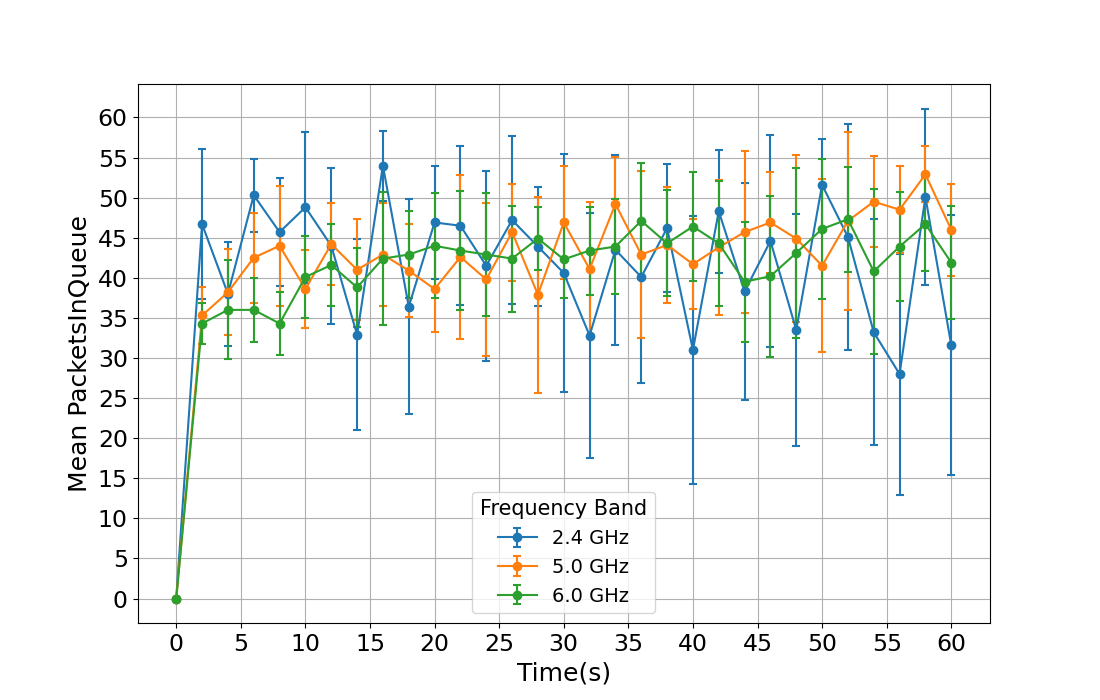
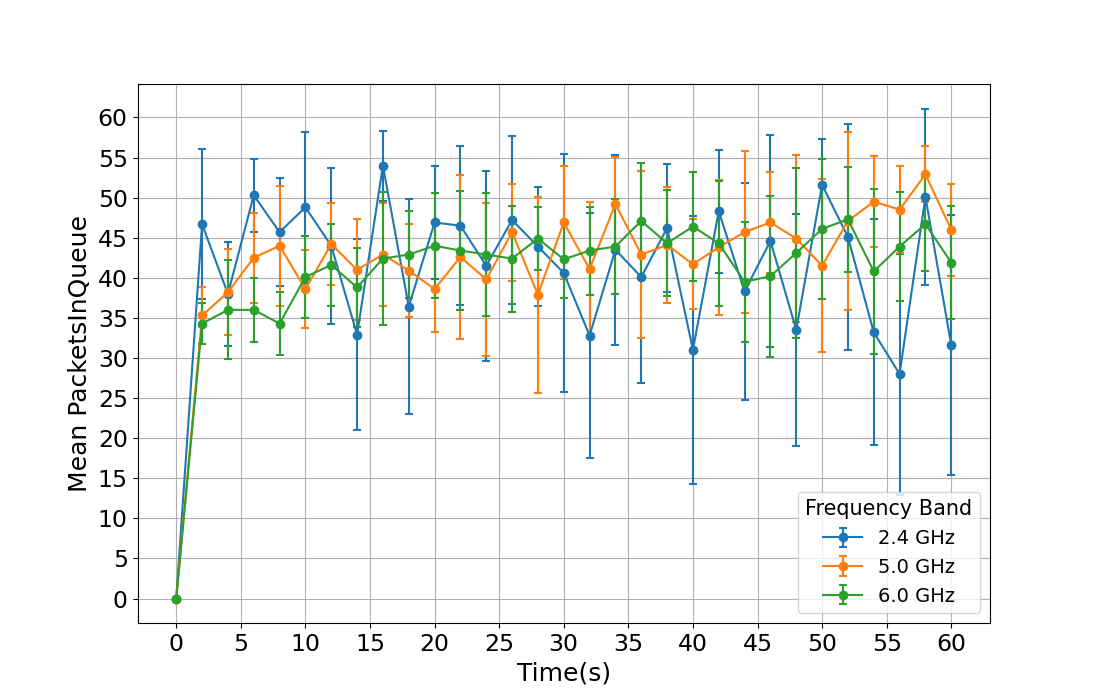
Actualizado el tamaño de fuente y leyenda de algunas gráficas

Changed region(s): [[0.4327, 0.69, 0.5873, 0.87], [0.7109, 0.69, 0.8964, 0.87]]

diff --git a/dropPackets_tiempo/grafico_packetsDropPhyRx.py b/dropPackets_tiempo/grafico_packetsDropPhyRx.py
@@ -114,7 +114,7 @@ ax = plt.gca()
 ax.yaxis.set_major_formatter(ticker.FuncFormatter(scientific_notation))
 
 plt.xticks(np.arange(0, mean_df['Time(s)'].max() + 1, 5), fontsize=17)
-plt.yticks(np.arange(0, 49000000, 3000000), fontsize=17)
+plt.yticks(np.arange(0, 52000000, 3000000), fontsize=17)
 
 plt.legend(title='Frequency Band - Wi-Fi', title_fontsize=15 ,fontsize=14)
 plt.grid(True)

diff --git a/dropPackets_tiempo/grafico1_queuePackets.py b/dropPackets_tiempo/grafico1_queuePackets.py
@@ -63,7 +63,7 @@ plt.ylabel('Mean PacketsInQueue', fontsize=18)
 plt.xticks(np.arange(0, mean_df['Time(s)'].max() + 1, 5), fontsize=17)
 plt.yticks(np.arange(0, 65, 5), fontsize=17)
 
-plt.legend(title='Frequency Band', title_fontsize=15 ,fontsize=14)
+plt.legend(title='Frequency Band', title_fontsize=15 ,fontsize=14, loc='lower right')
 plt.grid(True)
 
 plt.show()

diff --git a/dropPackets_tiempo/grafico2_queuePackets.py b/dropPackets_tiempo/grafico2_queuePackets.py
@@ -63,7 +63,7 @@ plt.ylabel('Mean PacketsInQueue', fontsize=18)
 plt.xticks(np.arange(0, mean_df['Time(s)'].max() + 1, 5), fontsize=17)
 plt.yticks(np.arange(0, 65, 5), fontsize=17)
 
-plt.legend(title='Frequency Band', title_fontsize=15 ,fontsize=14)
+plt.legend(title='Frequency Band', title_fontsize=15 ,fontsize=14, loc='lower right')
 plt.grid(True)
 
 plt.show()
